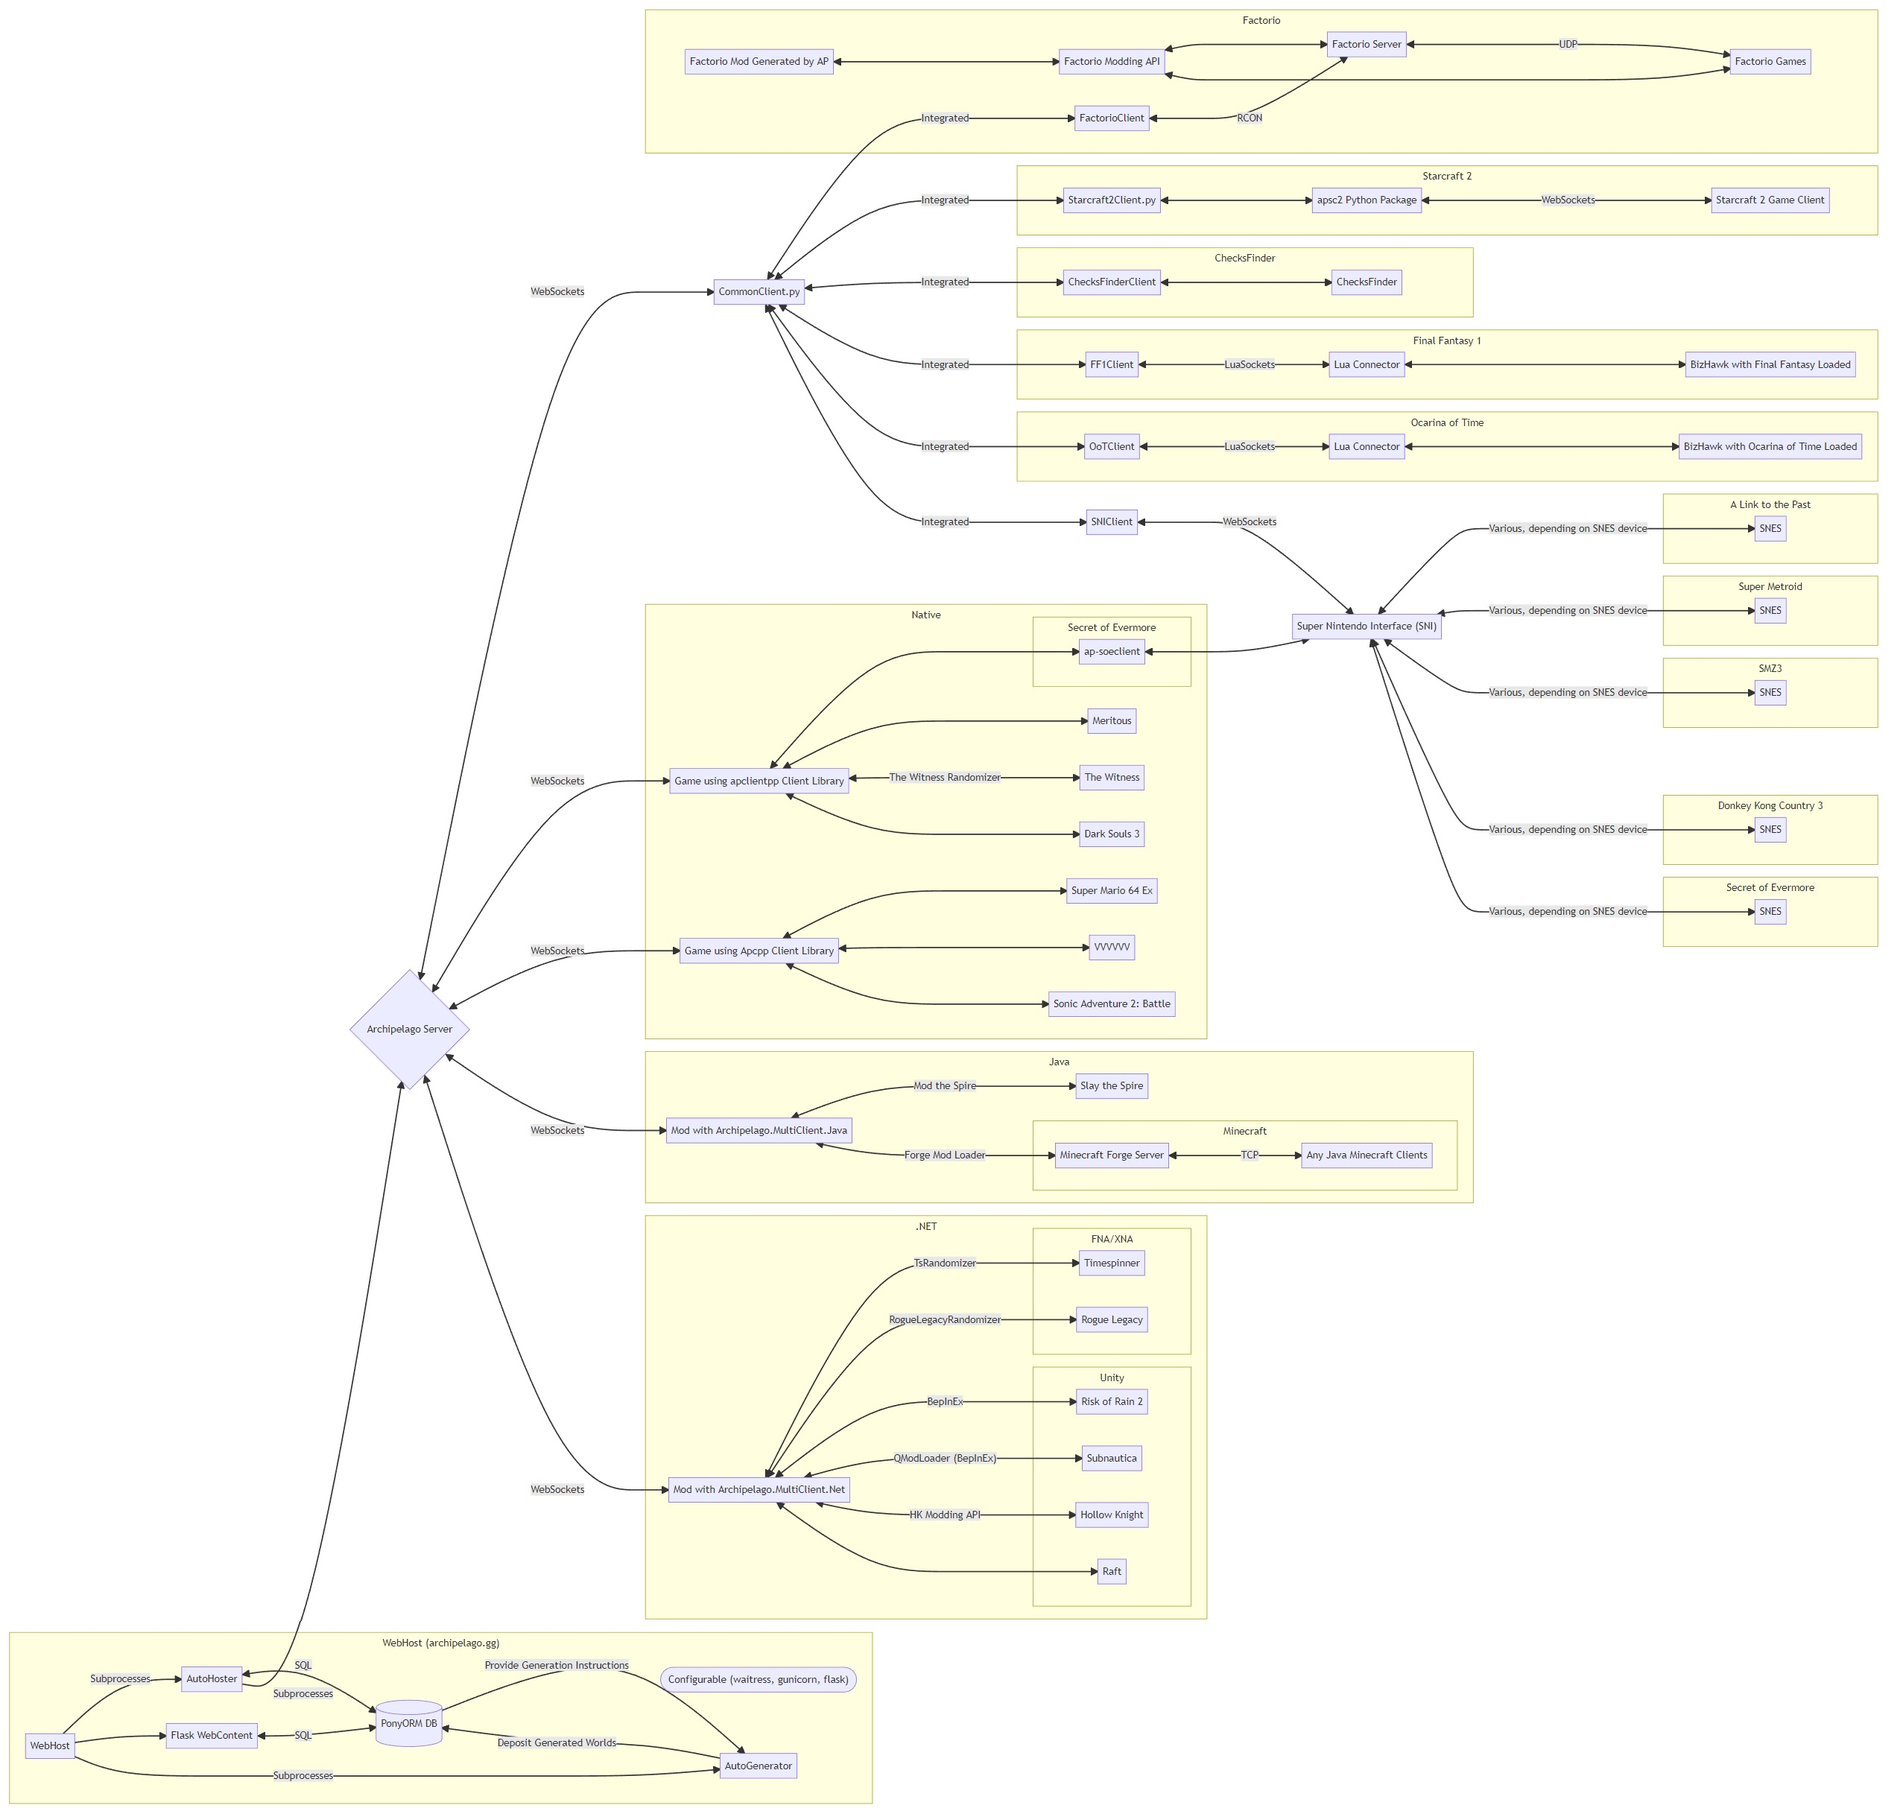
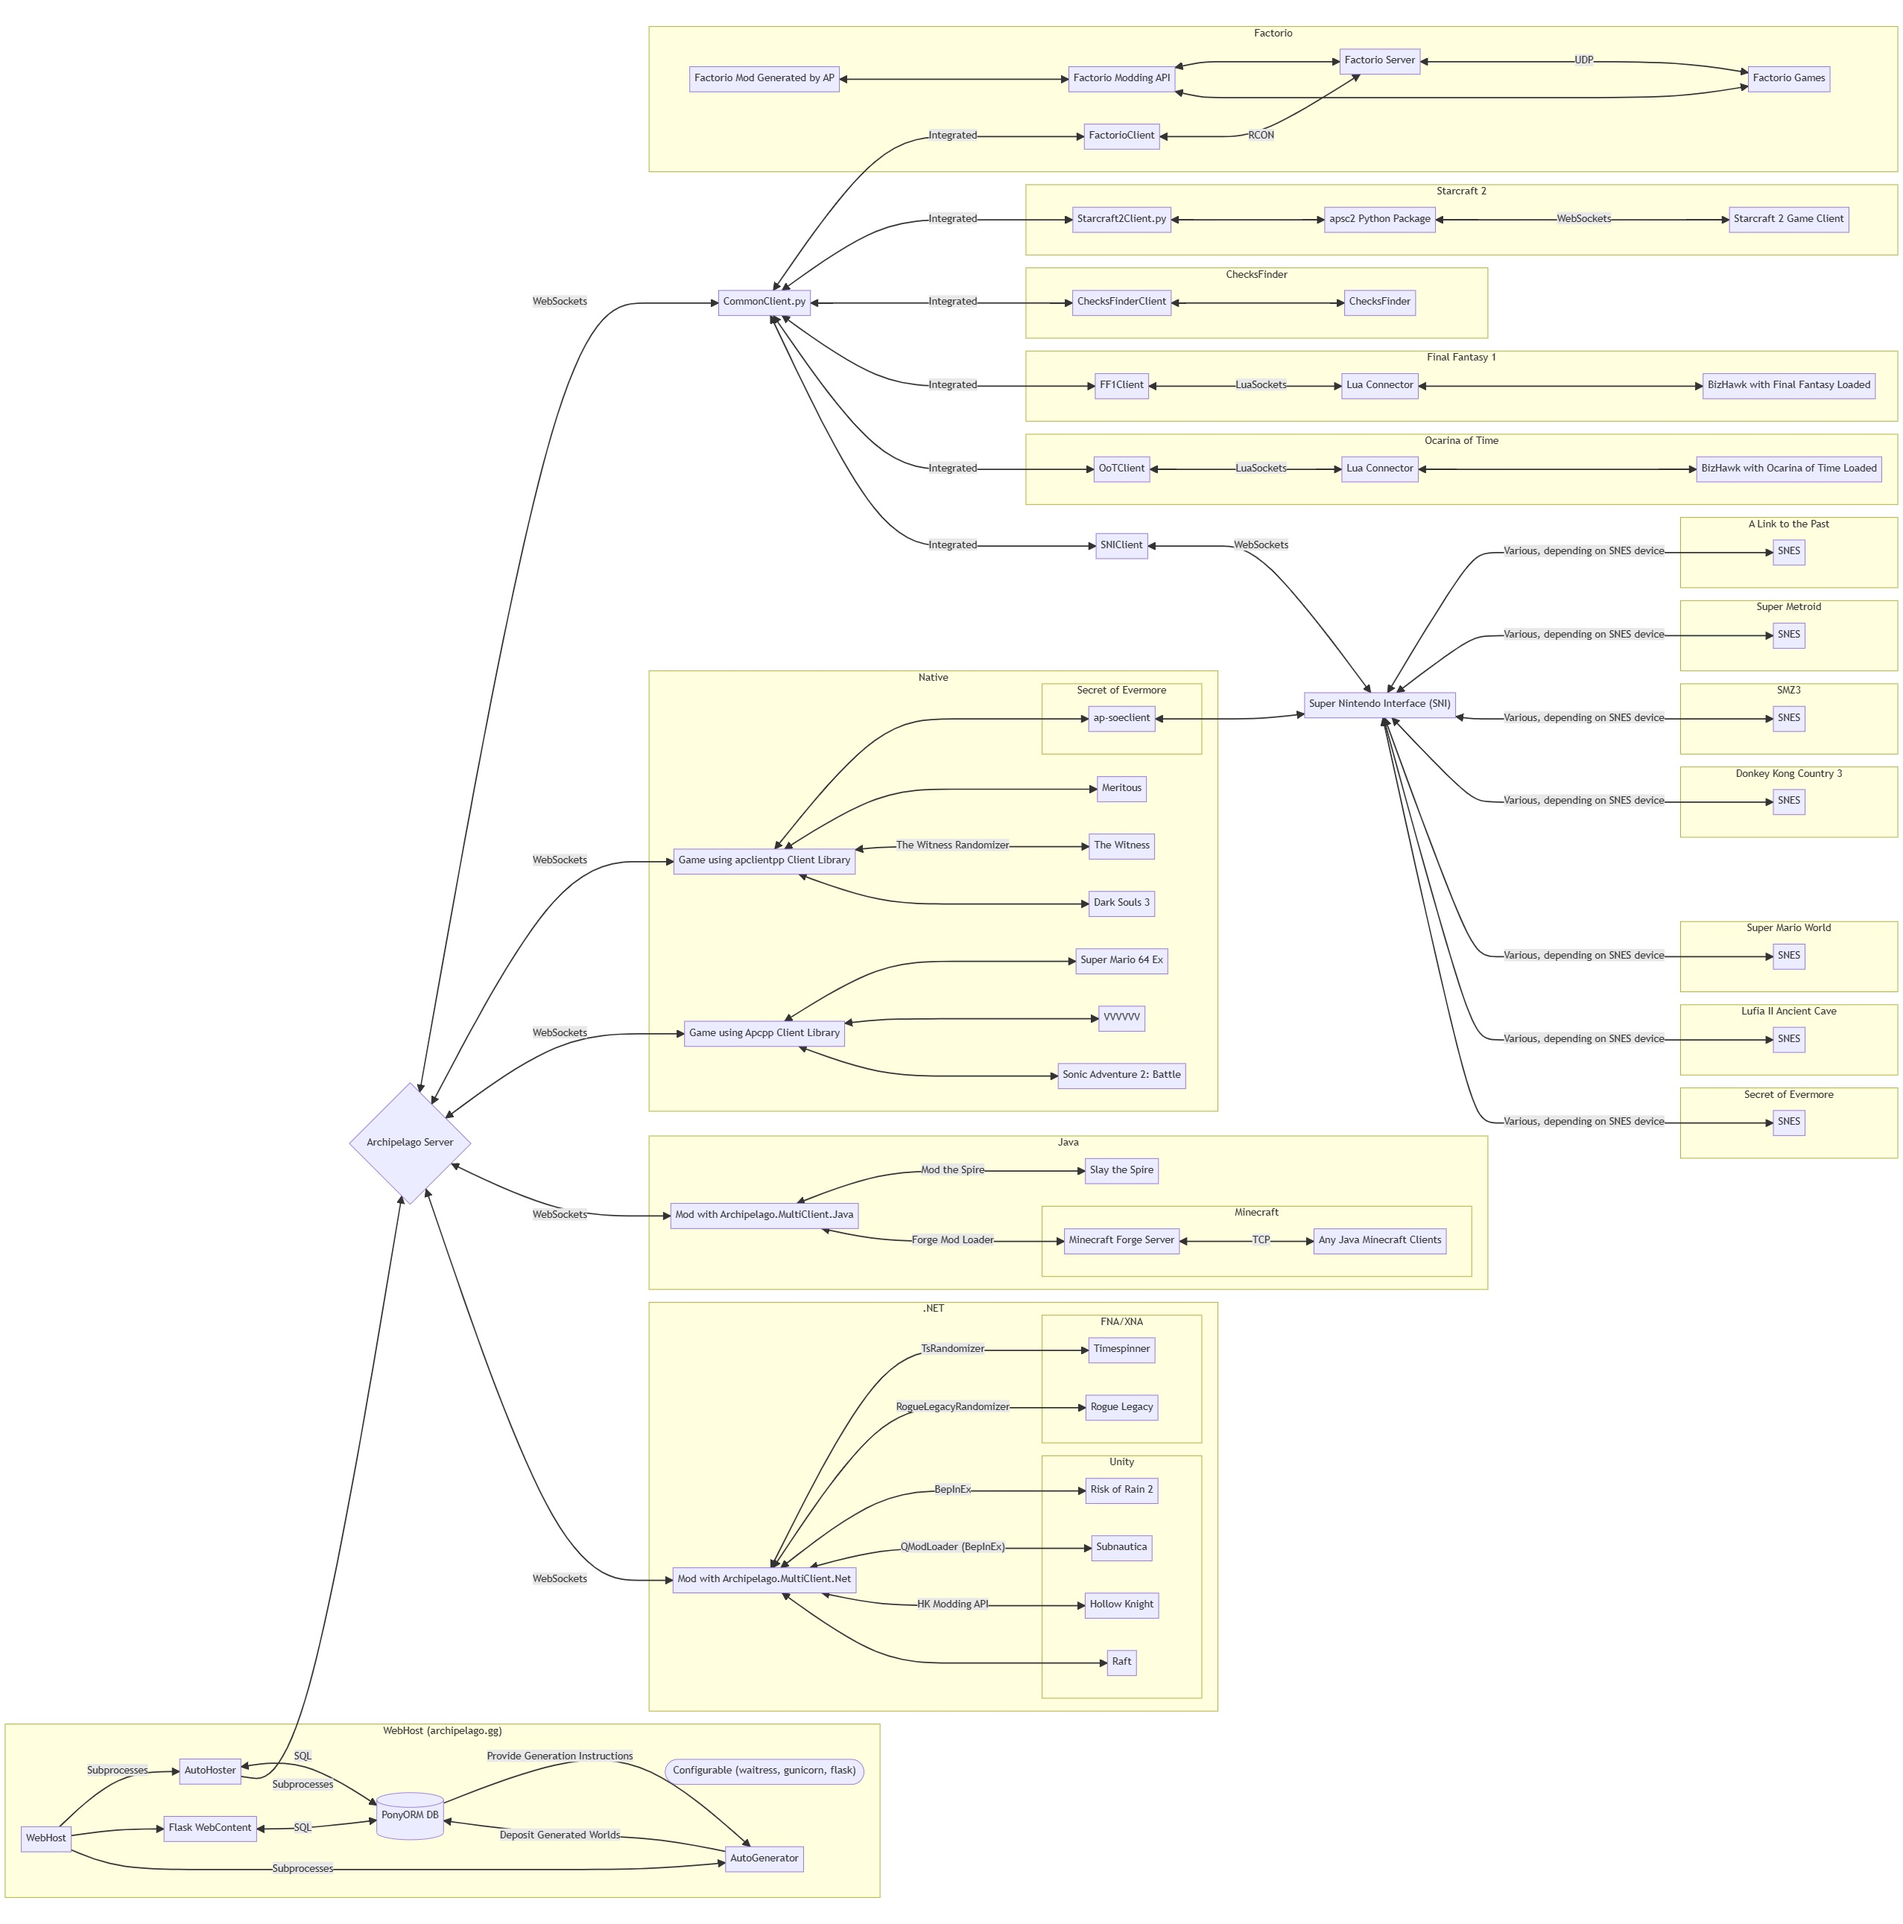
docs: add lufia2ac and smw to network diagram

diff --git a/docs/network diagram/network diagram.md b/docs/network diagram/network diagram.md
@@ -75,6 +75,18 @@ flowchart LR
     end
     SNI <-- Various, depending on SNES device --> DK3
 
+    %% Super Mario World
+    subgraph Super Mario World
+        SMW[SNES]
+    end
+    SNI <-- Various, depending on SNES device --> SMW
+
+    %% Lufia II Ancient Cave
+    subgraph Lufia II Ancient Cave
+        L2AC[SNES]
+    end
+    SNI <-- Various, depending on SNES device --> L2AC
+
     %% Native Clients or Games
     %% Games or clients which compile to native or which the client is integrated in the game.
     subgraph "Native"
